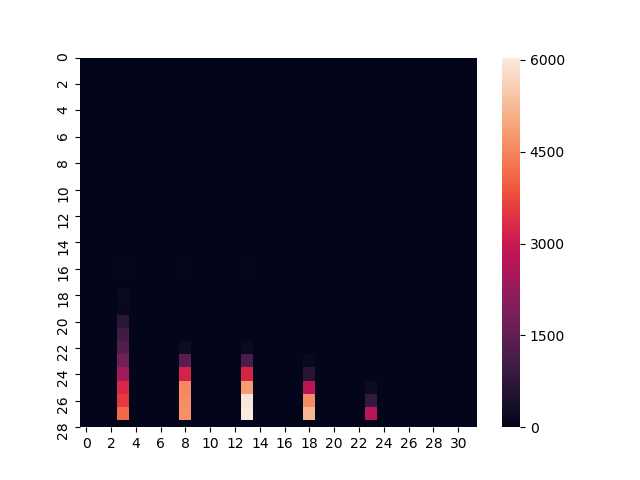
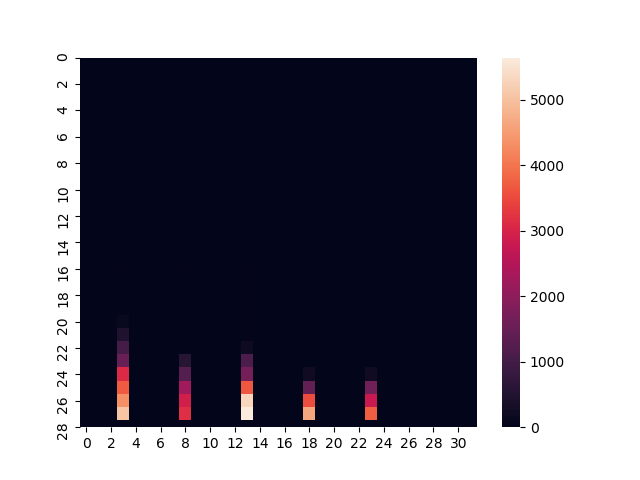
Update classic code

diff --git a/src/model.py b/src/model.py
@@ -144,6 +144,9 @@ class CustomerAgent(Agent):
 
 class SupermarketModel(Model):
     def __init__(self, type=QueueType.CLASSIC):
+        super().__init__(seed=1)
+        np.random.seed(1)
+
         # Mesa internals
         self.running = True
         self.steps_in_day = 7200
@@ -247,23 +250,23 @@ class SupermarketModel(Model):
             self.distance_matrix[world_matrix == 'Y'] = 1
             self.movement_grid = Grid(matrix=self.distance_matrix, inverse=True)
 
-        coin = self.random.randint(1, len(self.cashiers) - 1)
+        coin = self.random.randint(1, len(self.cashiers))
         self.cashiers[str(coin)].set_life()
-        self.generated = []
+
+        coin = self.random.randint(1, len(self.cashiers))
+        while self.cashiers[str(coin)].open:
+            coin = self.random.randint(1, len(self.cashiers))
+
+        self.cashiers[str(coin)].set_life()
+
 
     def step(self):
         self.current_agents = len(self.schedule.agents) - len(self.cashiers.items())
-        # estimated = self.capacity * 4
-        # rate = estimated / self.steps_in_day
-        # rate = 1800 / 3600
-        # to_spawn = np.random.poisson(rate)
-        # self.generated.append(to_spawn)
-        # print('Entering: ', to_spawn)
 
-        # for i in range(to_spawn):
-        #     if self.current_agents < self.capacity and self.should_spawn_agent():
-        #         self.schedule.add(self.create_agent())
-        if self.current_agents < self.capacity and self.should_spawn_agent():
+        if self.schedule.steps > self.steps_in_day:
+            self.running = self.schedule.steps % 250 and get_total_agents(self) == 0
+            return
+        elif self.steps_in_day and self.schedule.steps % 25 == 0 and self.current_agents < self.capacity and self.should_spawn_agent():
             self.schedule.add(self.create_agent())
 
         self.datacollector.collect(self)
@@ -276,66 +279,30 @@ class SupermarketModel(Model):
         if self.schedule.steps % (self.steps_in_day / 2) == 0:
             self.store_heatmap()
 
-    def adjust_cashiers(self):
-        opened, closed = self.partition(self.cashiers.values(), lambda c: c.open)
-
-        RIQ = 1
-        if len(get_agents_in_phase(self, [AgentPhase.REACHING_QUEUE, AgentPhase.IN_QUEUE])) > 0:
-            RIQ = len(opened) * 4 / len(get_agents_in_phase(self, [AgentPhase.IN_QUEUE, AgentPhase.REACHING_QUEUE, AgentPhase.PAYING]))
-
-        RIQ_real = 0
-        if len(get_agents_in_phase(self, [AgentPhase.IN_QUEUE])) > 0:
-            RIQ_real = len(get_agents_in_phase(self, [AgentPhase.IN_QUEUE, AgentPhase.PAYING])) / len(opened)
-
-        RQA = 0
-        if get_total_agents(self) > 0:
-            RQA = len(get_agents_in_phase(self, [AgentPhase.IN_QUEUE, AgentPhase.REACHING_QUEUE])) / get_total_agents(self)
-
-        RMQ = 1
-        if len(get_agents_in_phase(self, [AgentPhase.PAYING, AgentPhase.REACHING_QUEUE, AgentPhase.IN_QUEUE, AgentPhase.SNAKE_REACHING_CASHIER])) > 0:
-            RMQ = get_shopping_agents(self) / len(get_agents_in_phase(self, [AgentPhase.IN_QUEUE, AgentPhase.REACHING_QUEUE, AgentPhase.PAYING]))
-
-        print(Back.WHITE + Fore.BLACK + 'RIQ: {} - RIQ_real: {} - RQA: {} - RMQ: {}'.format(RIQ, RIQ_real, RQA, RMQ))
-
-        # Opening
-        if len(closed) > 0:
-            if RIQ < 1 and RIQ_real > 4.5 and RQA != 0:
-                coin = self.random.randint(0, len(closed) - 1)
-                cashier = closed[coin]
-                # if cashier.remaining_life == 0:
-                cashier.set_life()
-                self.open_cashier.add(cashier.unique_id)
-                print(Back.WHITE + Fore.GREEN + 'OPENING NEW CASH_REGISTER: {}'.format(cashier.unique_id))
-
-        # Closure
-        if len(opened) > 1:
-            if self.queue_type == QueueType.CLASSIC:
-                for cashier in opened:
-                    in_queue = len(self.queues[cashier.unique_id])
-                    if cashier.empty_since > 25 or (RIQ_real < 3 and (((RQA > 0.6 or RQA < 0.2) and RIQ > 1.5 and RMQ < 2.5) or RQA == 0)) and in_queue <= 3:
-                        self.close_cashier(cashier)
-                        opened.remove(cashier)
-                        # cashier.set_life(-90)
-                        # [cashier.set_life(cashier.remaining_life + 25) for cashier in opened]
-                        break
-
-            elif self.queue_type == QueueType.SNAKE:
-                if get_avg_queued_agents(self) < math.floor(self.queue_length_limit / 2):
-                    to_close = [c for c in opened if c.remaining_life == 0 and self.current_agents < (self.capacity / 3)]
-                    if len(to_close) > 0:
-                        coin = self.random.randint(0, len(to_close) - 1)
-                        cashier = to_close[coin]
-
-                        self.close_cashier(cashier)
-                        opened.remove(cashier)
-                        # cashier.set_life(-90)
-                        [cashier.set_life(cashier.remaining_life + 25) for cashier in opened]
-
     # def adjust_cashiers(self):
     #     opened, closed = self.partition(self.cashiers.values(), lambda c: c.open)
+
+    #     RIQ = 1
+    #     if len(get_agents_in_phase(self, [AgentPhase.REACHING_QUEUE, AgentPhase.IN_QUEUE])) > 0:
+    #         RIQ = len(opened) * 4 / len(get_agents_in_phase(self, [AgentPhase.IN_QUEUE, AgentPhase.REACHING_QUEUE, AgentPhase.PAYING]))
+
+    #     RIQ_real = 0
+    #     if len(get_agents_in_phase(self, [AgentPhase.IN_QUEUE])) > 0:
+    #         RIQ_real = len(get_agents_in_phase(self, [AgentPhase.IN_QUEUE, AgentPhase.PAYING])) / len(opened)
+
+    #     RQA = 0
+    #     if get_total_agents(self) > 0:
+    #         RQA = len(get_agents_in_phase(self, [AgentPhase.IN_QUEUE, AgentPhase.REACHING_QUEUE])) / get_total_agents(self)
+
+    #     RMQ = 1
+    #     if len(get_agents_in_phase(self, [AgentPhase.PAYING, AgentPhase.REACHING_QUEUE, AgentPhase.IN_QUEUE, AgentPhase.SNAKE_REACHING_CASHIER])) > 0:
+    #         RMQ = get_shopping_agents(self) / len(get_agents_in_phase(self, [AgentPhase.IN_QUEUE, AgentPhase.REACHING_QUEUE, AgentPhase.PAYING]))
+
+    #     print(Back.WHITE + Fore.BLACK + 'RIQ: {} - RIQ_real: {} - RQA: {} - RMQ: {}'.format(RIQ, RIQ_real, RQA, RMQ))
+
+    #     # Opening
     #     if len(closed) > 0:
-    #         # if len(get_agents_in_phase(self, [AgentPhase.REACHING_QUEUE, AgentPhase.IN_QUEUE])) / len(opened) >= self.queue_length_limit:
-    #         if len(opened) < self.ideal_number_of_cashier(self.schedule.steps) and self.current_agents > (len(opened) + 1) * self.capacity / self.queue_length_limit:
+    #         if RIQ < 1 and RIQ_real > 4.5 and RQA != 0:
     #             coin = self.random.randint(0, len(closed) - 1)
     #             cashier = closed[coin]
     #             # if cashier.remaining_life == 0:
@@ -343,12 +310,12 @@ class SupermarketModel(Model):
     #             self.open_cashier.add(cashier.unique_id)
     #             print(Back.WHITE + Fore.GREEN + 'OPENING NEW CASH_REGISTER: {}'.format(cashier.unique_id))
 
+    #     # Closure
     #     if len(opened) > 1:
     #         if self.queue_type == QueueType.CLASSIC:
     #             for cashier in opened:
     #                 in_queue = len(self.queues[cashier.unique_id])
-    #                 # if in_queue > 1 and in_queue <= math.floor(self.queue_length_limit / 2) and (cashier.remaining_life == 0 and self.current_agents < (self.capacity / 3)):
-    #                 if (in_queue > 1 or in_queue == 0) and len(opened) > self.ideal_number_of_cashier(self.schedule.steps) and self.current_agents < (len(opened) + 1) * self.capacity / self.queue_length_limit:
+    #                 if cashier.empty_since > 25 or (RIQ_real < 3 and (((RQA > 0.6 or RQA < 0.2) and RIQ > 1.5 and RMQ < 2.5) or RQA == 0)) and in_queue <= 3:
     #                     self.close_cashier(cashier)
     #                     opened.remove(cashier)
     #                     # cashier.set_life(-90)
@@ -366,6 +333,42 @@ class SupermarketModel(Model):
     #                     opened.remove(cashier)
     #                     # cashier.set_life(-90)
     #                     [cashier.set_life(cashier.remaining_life + 25) for cashier in opened]
+
+    def adjust_cashiers(self):
+        opened, closed = self.partition(self.cashiers.values(), lambda c: c.open)
+        if len(closed) > 0:
+            # if len(get_agents_in_phase(self, [AgentPhase.REACHING_QUEUE, AgentPhase.IN_QUEUE])) / len(opened) >= self.queue_length_limit:
+            if len(opened) < self.ideal_number_of_cashier(self.schedule.steps) and self.current_agents > (len(opened) + 1) * self.capacity / self.queue_length_limit:
+                coin = self.random.randint(0, len(closed) - 1)
+                cashier = closed[coin]
+                # if cashier.remaining_life == 0:
+                cashier.set_life()
+                self.open_cashier.add(cashier.unique_id)
+                print(Back.WHITE + Fore.GREEN + 'OPENING NEW CASH_REGISTER: {}'.format(cashier.unique_id))
+
+        if len(opened) > 2:
+            if self.queue_type == QueueType.CLASSIC:
+                for cashier in opened:
+                    in_queue = len(self.queues[cashier.unique_id])
+                    # if in_queue > 1 and in_queue <= math.floor(self.queue_length_limit / 2) and (cashier.remaining_life == 0 and self.current_agents < (self.capacity / 3)):
+                    if (in_queue > 1 or in_queue == 0) and len(opened) > self.ideal_number_of_cashier(self.schedule.steps) and self.current_agents < (len(opened) + 1) * self.capacity / self.queue_length_limit:
+                        self.close_cashier(cashier)
+                        opened.remove(cashier)
+                        # cashier.set_life(-90)
+                        # [cashier.set_life(cashier.remaining_life + 25) for cashier in opened]
+                        break
+
+            elif self.queue_type == QueueType.SNAKE:
+                if get_avg_queued_agents(self) < math.floor(self.queue_length_limit / 2):
+                    to_close = [c for c in opened if c.remaining_life == 0 and self.current_agents < (self.capacity / 3)]
+                    if len(to_close) > 0:
+                        coin = self.random.randint(0, len(to_close) - 1)
+                        cashier = to_close[coin]
+
+                        self.close_cashier(cashier)
+                        opened.remove(cashier)
+                        # cashier.set_life(-90)
+                        [cashier.set_life(cashier.remaining_life + 25) for cashier in opened]
 
     def assign_cash_register_to_customer(self):
         available, busy = self.partition(self.cashiers.values(), lambda c: c.open and not c.is_busy)
@@ -411,27 +414,27 @@ class SupermarketModel(Model):
         # Current: -\frac{\cos\left(\frac{t\pi}{1200}\right)}{2}+\frac{1}{2}
         # Attempt: \frac{1}{16\cos^{2}\left(\pi x\right)+1}
         relative_time = self.schedule.steps % self.steps_in_day
-        prob = (-math.cos(relative_time * np.pi / (self.steps_in_day / 2)) + 1) / 2
-        return self.random.random() <= 0.15 if self.random.random() <= prob else False
+        prob = (-math.cos(relative_time * np.pi / (self.steps_in_day / 2) + 1) + 1) / 2
+        return self.random.random() <= 0.85 if self.random.random() <= prob else False
 
     def ideal_number_of_cashier(self, step):
         prob = (step % self.steps_in_day) / self.steps_in_day
 
-        if prob <= 0.125 or prob >= 0.875:
-            return 2
-        if prob <= 0.25 or prob >= 0.75:
-            return 3
-        if prob <= 0.375 or prob >= 0.625:
-            return 4
-        if prob <= 0.75 or prob >= 0.25:
-            return 5
-
-        # if prob <= 0.25 or prob >= 0.85:
+        # if prob <= 0.125 or prob >= 0.875:
         #     return 2
-        # if prob <= 0.32 or prob >= 0.81:
+        # if prob <= 0.25 or prob >= 0.75:
         #     return 3
-        # if prob <= 0.53 or prob >= 0.64:
+        # if prob <= 0.375 or prob >= 0.625:
         #     return 4
+        # if prob <= 0.75 or prob >= 0.25:
+        #     return 5
+
+        if prob <= 0.265 or prob >= 0.88:
+            return 2
+        if prob <= 0.32 or prob >= 0.75:
+            return 3
+        if prob <= 0.44 or prob >= 0.66:
+            return 4
 
         # if prob <= 0.45 or prob >= 0.55:
         return 5
@@ -515,6 +518,18 @@ def get_avg_total_steps(model):
                     + agent.step_for_phase[AgentPhase.PAYING]
                     for agent in agents]
     return math.ceil(sum(agents_steps) / len(agents) / 60) if len(agents) != 0 else 0
+
+
+# def get_avg_total_steps(model):
+#     """ Count avg number of steps IN_QUEUE. """
+#     agents = get_agents_in_phase(model, [AgentPhase.SHOPPING, AgentPhase.IN_QUEUE, AgentPhase.SNAKE_REACHING_CASHIER, AgentPhase.PAYING])
+#     agents_steps = [agent.step_for_phase[AgentPhase.IN_QUEUE]
+#                     + agent.step_for_phase[AgentPhase.SNAKE_REACHING_CASHIER]
+#                     + agent.step_for_phase[AgentPhase.SHOPPING]
+#                     # + agent.step_for_phase[AgentPhase.REACHING_QUEUE]
+#                     + agent.step_for_phase[AgentPhase.PAYING]
+#                     for agent in agents]
+#     return math.ceil(sum(agents_steps) / len(agents) / 60) if len(agents) != 0 else 0
 
 
 def get_truncated_normal(mean=0, sd=1, low=1, upp=np.inf):

diff --git a/src/run.py b/src/run.py
@@ -54,12 +54,12 @@ def agent_portrayal(agent):
             "products": agent.products_count,
             "shopping_time": str(agent.shopping_time),
             "paying_time": str(agent.paying_time),
+            "ID": str(agent.unique_id),
             # "text": agent.unique_id,
             # "text_color": "white"
         }
 
     raise Exception('Undefined render function for agent \'{}\''.format(type(agent)))
-
 
 colorama.init(autoreset=True)
 queue_type = UserSettableParameter('choice', 'Queue Type', value=QueueType.CLASSIC.name,
